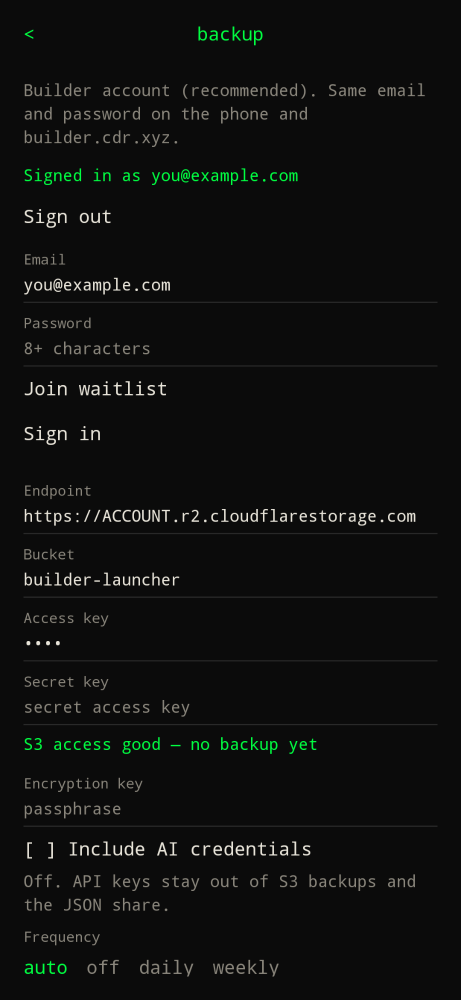
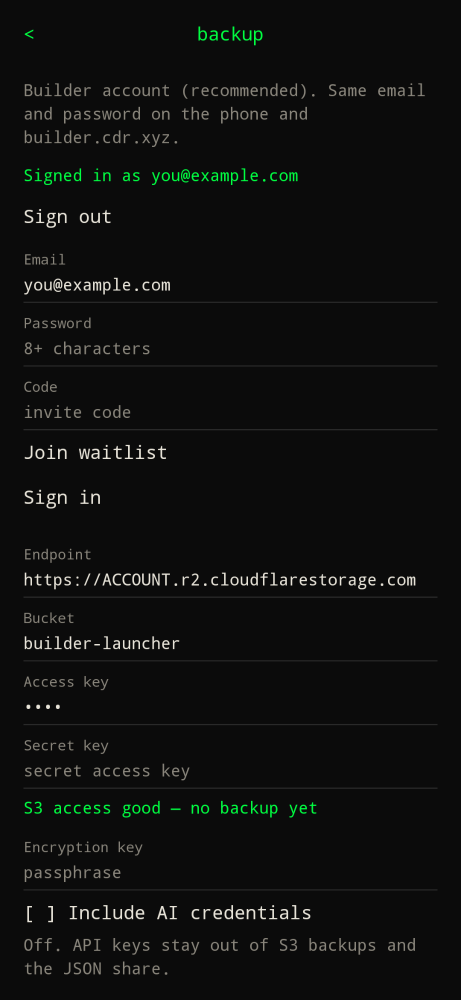
feat: open account signup with an invite code (#222)
A matching code creates the account on the host. Anything else stays on the waitlist.

diff --git a/app/src/main/java/xyz/cdr/builderlauncher/ui/SettingsScreens.kt b/app/src/main/java/xyz/cdr/builderlauncher/ui/SettingsScreens.kt
@@ -135,6 +135,7 @@ import xyz.cdr.builderlauncher.apps.AppList
 import xyz.cdr.builderlauncher.backup.BackupFrequency
 import xyz.cdr.builderlauncher.backup.AccountAutofill
 import xyz.cdr.builderlauncher.backup.AccountRefresh
+import xyz.cdr.builderlauncher.backup.AccountSignup
 import xyz.cdr.builderlauncher.backup.BackupService
 import xyz.cdr.builderlauncher.backup.S3Access
 import xyz.cdr.builderlauncher.backup.S3Signer
@@ -859,6 +860,7 @@ internal fun BackupSettingsPage(
     var s3Encryption by remember { mutableStateOf(settings.s3EncryptionKey) }
     var accountEmail by remember { mutableStateOf(settings.accountEmail) }
     var accountPassword by remember { mutableStateOf("") }
+    var signupCode by remember { mutableStateOf("") }
     var backupMsg by remember { mutableStateOf<String?>(null) }
     var backupBusy by remember { mutableStateOf(false) }
     var confirmRestore by remember { mutableStateOf(false) }
@@ -925,21 +927,57 @@ internal fun BackupSettingsPage(
                 password = true,
                 autofillTypes = AccountAutofill.passwordTypes,
             ) { accountPassword = it }
-            Text(
-                "Join waitlist",
-                color = if (backupBusy) Dim else Paper,
-                modifier = Modifier
-                    .clickable(enabled = !backupBusy) {
-                        backupBusy = true
-                        scope.launch {
-                            backupMsg = runCatching {
-                                withContext(Dispatchers.IO) { backup.joinWaitlist(accountEmail) }
-                            }.getOrElse { it.message ?: "Could not join the waitlist." }
-                            backupBusy = false
+            LabeledField(
+                "Code",
+                signupCode,
+                "invite code",
+            ) { signupCode = it }
+            if (AccountSignup.opens(signupCode)) {
+                Text(
+                    "Create account",
+                    color = if (backupBusy) Dim else Paper,
+                    modifier = Modifier
+                        .clickable(enabled = !backupBusy) {
+                            backupBusy = true
+                            scope.launch {
+                                backupMsg = runCatching {
+                                    withContext(Dispatchers.IO) {
+                                        val created = backup.signup(accountEmail, accountPassword, signupCode)
+                                        created + ". " + backup.mergeAccount()
+                                    }
+                                }.fold(
+                                    onSuccess = {
+                                        AccountAutofill.commit(ctx)
+                                        it
+                                    },
+                                    onFailure = {
+                                        AccountAutofill.cancel(ctx)
+                                        it.message ?: "Could not create the account."
+                                    },
+                                )
+                                accountPassword = ""
+                                backupBusy = false
+                            }
                         }
-                    }
-                    .padding(vertical = 8.dp),
-            )
+                        .padding(vertical = 8.dp),
+                )
+            } else {
+                Text(
+                    "Join waitlist",
+                    color = if (backupBusy) Dim else Paper,
+                    modifier = Modifier
+                        .clickable(enabled = !backupBusy) {
+                            backupBusy = true
+                            scope.launch {
+                                backupMsg = runCatching {
+                                    withContext(Dispatchers.IO) { backup.joinWaitlist(accountEmail) }
+                                }.getOrElse { it.message ?: "Could not join the waitlist." }
+                                backupBusy = false
+                            }
+                        }
+                        .padding(vertical = 8.dp),
+                )
+            }
             Text(
                 "Sign in",
                 color = if (backupBusy) Dim else Paper,

diff --git a/website/public/web/app.js b/website/public/web/app.js
@@ -9,6 +9,7 @@ import {
 	requestAccountCredential,
 	setAccountRefresher,
 	storeAccountCredential,
+	signupCodeOpens,
 } from './account.js';
 import { emptyDoc, joinDocs, keepFreshArticles, mergeDocs, slimDoc, isQuotaError, writeSnapshot } from './merge.js';
 import {
@@ -1789,6 +1790,7 @@ function accountCard() {
 		form.append(
 			field('Email', 'email', state.account.email, 'you@example.com', 'email'),
 			field('Password', 'password', '', '8+ characters', 'password'),
+			field('Code', 'code', '', 'invite code', 'text'),
 		);
 		promptAccountPassword(form);
 	}
@@ -1800,11 +1802,25 @@ function accountCard() {
 			button('sign out', () => signOut(), 'ghost'),
 		);
 	} else {
-		const wait = document.createElement('button');
-		wait.className = 'ghost';
-		wait.type = 'button';
-		wait.textContent = 'join waitlist';
-		wait.addEventListener('click', () => joinWaitlist(form));
+		const gate = document.createElement('button');
+		gate.className = 'ghost';
+		gate.type = 'button';
+		const codeInput = form.querySelector('[name="code"]');
+		const paintGate = () => {
+			const open = signupCodeOpens(codeInput?.value);
+			gate.textContent = open ? 'create account' : 'join waitlist';
+			gate.onclick = () => {
+				if (signupCodeOpens(codeInput?.value)) {
+					const passwordInput = form.querySelector('[name="password"]');
+					if (passwordInput) applyPasswordManagerAttrs(passwordInput, 'password', 'password', 'signup');
+					submitAccount(form, 'signup');
+				} else {
+					joinWaitlist(form);
+				}
+			};
+		};
+		codeInput?.addEventListener('input', paintGate);
+		paintGate();
 		const signIn = document.createElement('button');
 		signIn.className = 'primary';
 		signIn.type = 'submit';
@@ -1817,7 +1833,7 @@ function accountCard() {
 			if (passwordInput) applyPasswordManagerAttrs(passwordInput, 'password', 'password', 'login');
 			submitAccount(form, 'login');
 		});
-		actions.append(signIn, wait);
+		actions.append(signIn, gate);
 	}
 	form.append(actions);
 	return form;
@@ -2494,10 +2510,12 @@ async function submitAccount(form, mode) {
 	const email = String(data.get('email') || '').trim();
 	const password = String(data.get('password') || '');
 	state.busy = true;
-	setStatus('Signing in…');
+	setStatus(mode === 'signup' ? 'Creating account…' : 'Signing in…');
 	try {
-		const path = '/api/auth/login';
-		const res = await apiJson(path, { method: 'POST', body: { email, password } });
+		const path = mode === 'signup' ? '/api/auth/signup' : '/api/auth/login';
+		const code = String(data.get('code') || '');
+		const body = mode === 'signup' ? { email, password, code } : { email, password };
+		const res = await apiJson(path, { method: 'POST', body });
 		await storeAccountCredential(email, password);
 		state.account = accountRecord(res);
 		saveAccount(state.account);

diff --git a/cloudflare/src/auth.ts b/cloudflare/src/auth.ts
@@ -19,7 +19,7 @@ const COOKIE = 'bl_session';
 type UserRow = { id: string; email: string; password_hash: string };
 
 export async function handleAuth(request: Request, url: URL, env: AuthEnv): Promise<Response | null> {
-	if (url.pathname === '/api/auth/signup' && request.method === 'POST') return signupClosed();
+	if (url.pathname === '/api/auth/signup' && request.method === 'POST') return signup(request, env);
 	if (url.pathname === '/api/waitlist' && request.method === 'POST') return joinWaitlist(request, env);
 	if (url.pathname === '/api/auth/login' && request.method === 'POST') return login(request, env);
 	if (url.pathname === '/api/auth/refresh' && request.method === 'POST') return refresh(request, env);
@@ -43,7 +43,37 @@ export async function currentUser(request: Request, env: AuthEnv): Promise<{ id:
 }
 
 function signupClosed(): Response {
-	return jsonError('Accounts are closed. Join the waitlist.', 403);
+	return jsonError('Join the waitlist.', 403);
+}
+
+export const SIGNUP_CODE = 'timetobuild';
+
+export function signupCodeOpens(code: string): boolean {
+	return String(code || '').trim().toLowerCase() === SIGNUP_CODE;
+}
+
+async function signup(request: Request, env: AuthEnv): Promise<Response> {
+	const limited = await rateLimit(env.DB, `signup:${clientIp(request)}`, 10, 60 * 60);
+	if (limited) return limited;
+	let raw: Record<string, unknown>;
+	try {
+		raw = (await request.json()) as Record<string, unknown>;
+	} catch {
+		return jsonError('JSON body required');
+	}
+	if (!signupCodeOpens(String(raw.code || ''))) return signupClosed();
+	const email = normalizeEmail(String(raw.email || ''));
+	const password = String(raw.password || '');
+	if (!isValidEmail(email)) return jsonError('Enter a valid email');
+	if (!isValidPassword(password)) return jsonError('Password must be 8–128 characters');
+	const existing = await env.DB.prepare('SELECT id FROM users WHERE email = ?').bind(email).first<{ id: string }>();
+	if (existing) return jsonError('That email already has an account. Sign in.', 409);
+	const id = randomToken(16);
+	await env.DB.prepare('INSERT INTO users (id, email, password_hash) VALUES (?, ?, ?)')
+		.bind(id, email, await hashPassword(password))
+		.run();
+	await writeAudit(env.DB, { actorId: id, action: 'auth.signup', ip: clientIp(request) });
+	return issueSession(env, { id, email }, request);
 }
 
 async function joinWaitlist(request: Request, env: AuthEnv): Promise<Response> {

diff --git a/cloudflare/test/auth.test.ts b/cloudflare/test/auth.test.ts
@@ -23,7 +23,22 @@ test('signup is closed and the waitlist stores an email', async () => {
 	db.exec(readFileSync(new URL('../schema.sql', import.meta.url), 'utf8'));
 	const env = { DB: d1(db) };
 	const closed = await handleAuth(jsonRequest('/api/auth/signup', { email: 'a@b.co', password: 'longenough' }), new URL('https://builder.cdr.xyz/api/auth/signup'), env);
+	assert.ok(closed);
 	assert.equal(closed.status, 403);
+	assert.match(String(await closed.text()), /waitlist/i);
+	const wrong = await handleAuth(jsonRequest('/api/auth/signup', { email: 'a@b.co', password: 'longenough', code: 'nope' }), new URL('https://builder.cdr.xyz/api/auth/signup'), env);
+	assert.ok(wrong);
+	assert.equal(wrong.status, 403);
+	assert.match(String(await wrong.text()), /waitlist/i);
+	const opened = await handleAuth(jsonRequest('/api/auth/signup', { email: 'New@Example.com', password: 'longenough', code: 'TimeToBuild' }), new URL('https://builder.cdr.xyz/api/auth/signup'), env);
+	assert.ok(opened);
+	assert.equal(opened.status, 200);
+	const session = await opened.json();
+	assert.equal(session.email, 'new@example.com');
+	assert.ok(session.token);
+	const duplicate = await handleAuth(jsonRequest('/api/auth/signup', { email: 'new@example.com', password: 'longenough', code: 'timetobuild' }), new URL('https://builder.cdr.xyz/api/auth/signup'), env);
+	assert.ok(duplicate);
+	assert.equal(duplicate.status, 409);
 	const joined = await handleAuth(jsonRequest('/api/waitlist', { email: 'Wait@Example.com' }), new URL('https://builder.cdr.xyz/api/waitlist'), env);
 	assert.equal(joined.status, 200);
 	assert.equal(db.prepare('SELECT email FROM waitlist').get().email, 'wait@example.com');

diff --git a/app/src/main/java/xyz/cdr/builderlauncher/backup/AccountClient.kt b/app/src/main/java/xyz/cdr/builderlauncher/backup/AccountClient.kt
@@ -21,7 +21,11 @@ class AccountClient(
         post("/api/waitlist", body, token = "")
     }
 
-    fun signup(email: String, password: String): AccountSession = auth("/api/auth/signup", email, password)
+    fun signup(email: String, password: String, code: String): AccountSession {
+        val body = json.encodeToString(SignupBody.serializer(), SignupBody(email.trim(), password, code.trim()))
+        val raw = post("/api/auth/signup", body, token = "")
+        return json.decodeFromString(AccountSession.serializer(), raw)
+    }
 
     fun login(email: String, password: String): AccountSession = auth("/api/auth/login", email, password)
 
@@ -141,6 +145,9 @@ class AccountClient(
 
 @Serializable
 data class AuthBody(val email: String, val password: String)
+
+@Serializable
+data class SignupBody(val email: String, val password: String, val code: String = "")
 
 @Serializable
 data class WaitlistBody(val email: String)

diff --git a/app/src/main/java/xyz/cdr/builderlauncher/ui/LauncherChrome.kt b/app/src/main/java/xyz/cdr/builderlauncher/ui/LauncherChrome.kt
@@ -1787,6 +1787,7 @@ fun BackupChrome(
         Text("Sign out", color = Paper, modifier = Modifier.padding(vertical = 8.dp))
         Field("Email", "you@example.com", "you@example.com")
         Field("Password", "", "8+ characters")
+        Field("Code", "", "invite code")
         Text("Join waitlist", color = Paper, modifier = Modifier.padding(vertical = 8.dp))
         Text("Sign in", color = Paper, modifier = Modifier.padding(vertical = 8.dp))
         Spacer(Modifier.height(12.dp))

diff --git a/app/src/test/java/xyz/cdr/builderlauncher/backup/AccountRefreshTest.kt b/app/src/test/java/xyz/cdr/builderlauncher/backup/AccountRefreshTest.kt
@@ -13,6 +13,10 @@ class AccountRefreshTest {
         assertFalse(AccountRefresh.shouldRetry(null, "refresh"))
         assertTrue(AccountRefresh.showsSignIn("me@example.com", "dead-token"))
         assertTrue(AccountRefresh.showsSignIn("", ""))
+        assertTrue(AccountSignup.opens("timetobuild"))
+        assertTrue(AccountSignup.opens(" TimeToBuild "))
+        assertFalse(AccountSignup.opens("nope"))
+        assertFalse(AccountSignup.opens(""))
     }
 
     @Test

diff --git a/app/src/main/java/xyz/cdr/builderlauncher/backup/BackupService.kt b/app/src/main/java/xyz/cdr/builderlauncher/backup/BackupService.kt
@@ -104,8 +104,8 @@ class BackupService(
         return "You are on the waitlist."
     }
 
-    fun signup(email: String, password: String): String {
-        val session = account.signup(email, password)
+    fun signup(email: String, password: String, code: String): String {
+        val session = account.signup(email, password, code)
         saveSession(session)
         return "Created ${session.email}"
     }

diff --git a/website/public/web/account.js b/website/public/web/account.js
@@ -1,3 +1,9 @@
+export const SIGNUP_CODE = 'timetobuild';
+
+export function signupCodeOpens(code) {
+	return String(code || '').trim().toLowerCase() === SIGNUP_CODE;
+}
+
 export const OVERWRITE_WARNING =
 	'This will overwrite any local data on this device (todos, notes, chats, pins, stocks, podcasts, articles, alarms, and settings). OAuth tokens on this phone stay unless the snapshot includes them. Continue?';
 

diff --git a/app/src/main/java/xyz/cdr/builderlauncher/backup/AccountSignup.kt b/app/src/main/java/xyz/cdr/builderlauncher/backup/AccountSignup.kt
@@ -1,0 +1,7 @@
+package xyz.cdr.builderlauncher.backup
+
+object AccountSignup {
+    const val CODE = "timetobuild"
+
+    fun opens(code: String): Boolean = code.trim().lowercase() == CODE
+}

diff --git a/website/public/web/sw.js b/website/public/web/sw.js
@@ -1,4 +1,4 @@
-const CACHE = 'builder-launcher-web-v57';
+const CACHE = 'builder-launcher-web-v58';
 const SHELL = [
 	'./',
 	'./index.html',

diff --git a/website/src/content/docs/configure/web.md b/website/src/content/docs/configure/web.md
@@ -7,15 +7,15 @@ Open **[builder.cdr.xyz](https://builder.cdr.xyz)**. Add to Home Screen on iPhon
 
 ![Web home: clock, open tasks, command bar](../../../assets/screenshots/web.png)
 
-**Preferred:** sign in to an existing builder.cdr.xyz account (email + password). New accounts are closed. Settings has **join waitlist**, which stores the email and does not create a login. Settings login fields ask the browser password manager, and a successful sign-in can save the login. Sign-in asks before it **overwrites** local data with the account snapshot. After that, sync **merges**: different tasks/notes keep both sides; the same item is last-write-wins on `updatedAt` / `completedAt` / `createdAt` (not a field-level CRDT). Task order is separate: a new task from either side lands at the top, and a manual reorder wins on `orderedAt` without dropping a newer text edit. Deletes union. **Include AI credentials** (off by default) puts the phone API key and OAuth tokens in the snapshot. After a sync, type `?` and a question. The reply opens full-screen chat. History lists past threads from the snapshot. The Worker forwards the bearer token to the provider you already configured and does not store it. A Hermes box on the LAN still has to be asked from the phone.
+**Preferred:** sign in to an existing builder.cdr.xyz account (email + password). A **code** field creates an account when the code is valid. Without it, **join waitlist** stores the email and does not create a login. Settings login fields ask the browser password manager, and a successful sign-in can save the login. Sign-in asks before it **overwrites** local data with the account snapshot. After that, sync **merges**: different tasks/notes keep both sides; the same item is last-write-wins on `updatedAt` / `completedAt` / `createdAt` (not a field-level CRDT). Task order is separate: a new task from either side lands at the top, and a manual reorder wins on `orderedAt` without dropping a newer text edit. Deletes union. **Include AI credentials** (off by default) puts the phone API key and OAuth tokens in the snapshot. After a sync, type `?` and a question. The reply opens full-screen chat. History lists past threads from the snapshot. The Worker forwards the bearer token to the provider you already configured and does not store it. A Hermes box on the LAN still has to be asked from the phone.
 
 **Secondary:** the same five S3 fields as the phone. Credentials stay in this browser. They are posted only to the Builder Launcher Worker, which talks to your bucket (SigV4) at `builder-launcher/backup.enc`. Decrypt still happens in the browser. Last S3 upload wins.
 
 ## First load
 
 1. Open [builder.cdr.xyz](https://builder.cdr.xyz).
-2. Sign in if you already have an account. Otherwise enter an email and choose **join waitlist**. The gear on the home row (same height as headphones and weather) opens Settings (command bar stays in `>` — the slash list only opens if you type `/` or pick slash). Auto-sync defaults to **on save** (push shortly after an edit). **30s** / **5 min** also pull in the background. **off** is manual: **sync now**, `/pull`, `/push`. **pull** / **Sync now** returns as soon as the account snapshot is in — success does not wait on podcast RSS, quotes, or weather. Those fill in afterward (a hung feed cannot freeze the timestamp). Auth and vault calls time out after 20s instead of spinning forever.
-3. On the phone: Settings → **… backup >**. Same email and password if you already have an account. **Join waitlist** or **Sign in**, then **Sync now**.
+2. Sign in if you already have an account. Enter a code to **create account**, or choose **join waitlist**. The gear on the home row (same height as headphones and weather) opens Settings (command bar stays in `>` — the slash list only opens if you type `/` or pick slash). Auto-sync defaults to **on save** (push shortly after an edit). **30s** / **5 min** also pull in the background. **off** is manual: **sync now**, `/pull`, `/push`. **pull** / **Sync now** returns as soon as the account snapshot is in — success does not wait on podcast RSS, quotes, or weather. Those fill in afterward (a hung feed cannot freeze the timestamp). Auth and vault calls time out after 20s instead of spinning forever.
+3. On the phone: Settings → **… backup >**. Same email and password if you already have an account. Enter a code for **Create account**, or **Join waitlist**, then **Sign in** and **Sync now**.
 4. Safari: Share → Add to Home Screen. Chrome/desktop: Install app.
 
 S3 is still available under **S3 backup (optional)** if you already have a bucket.
